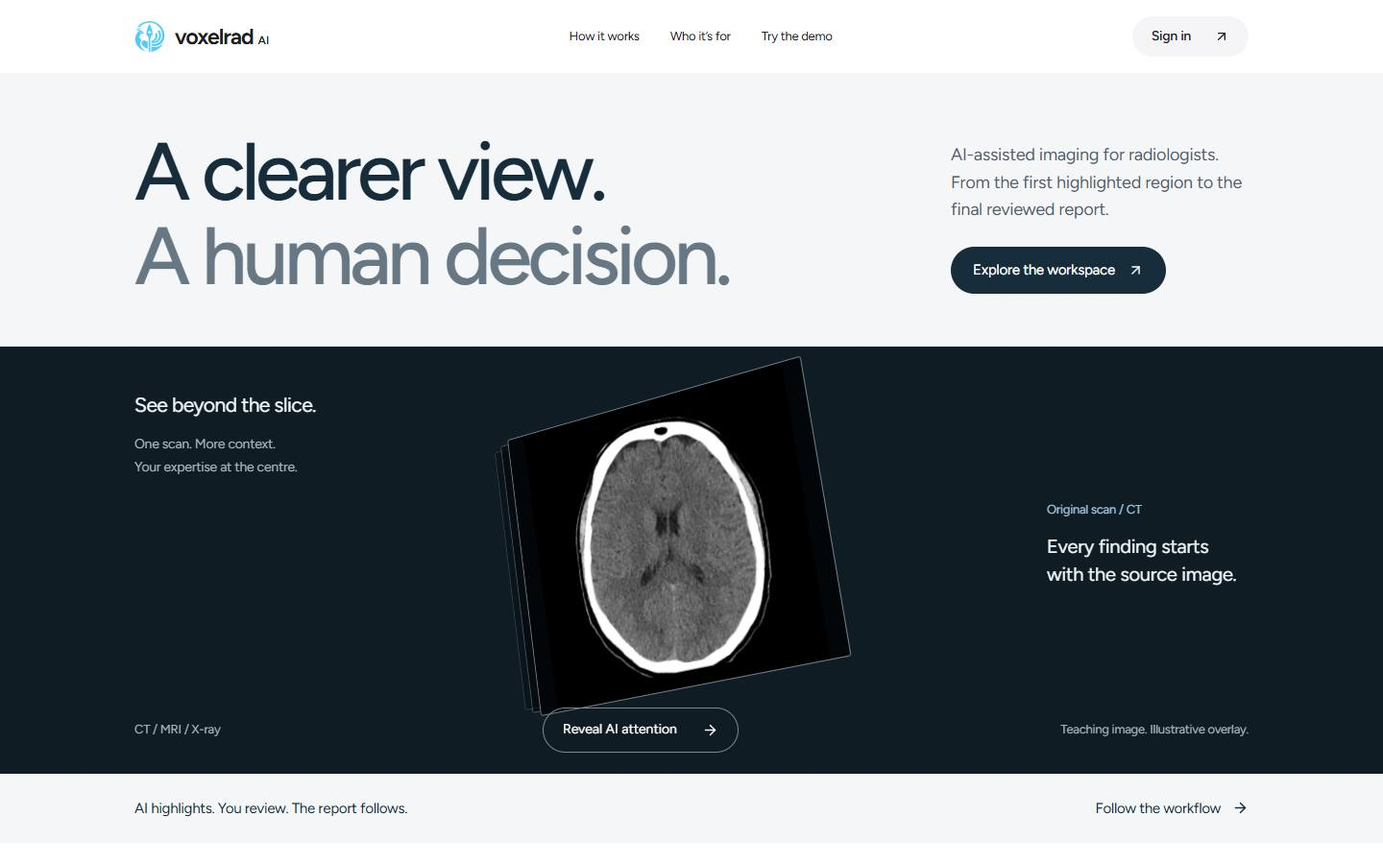
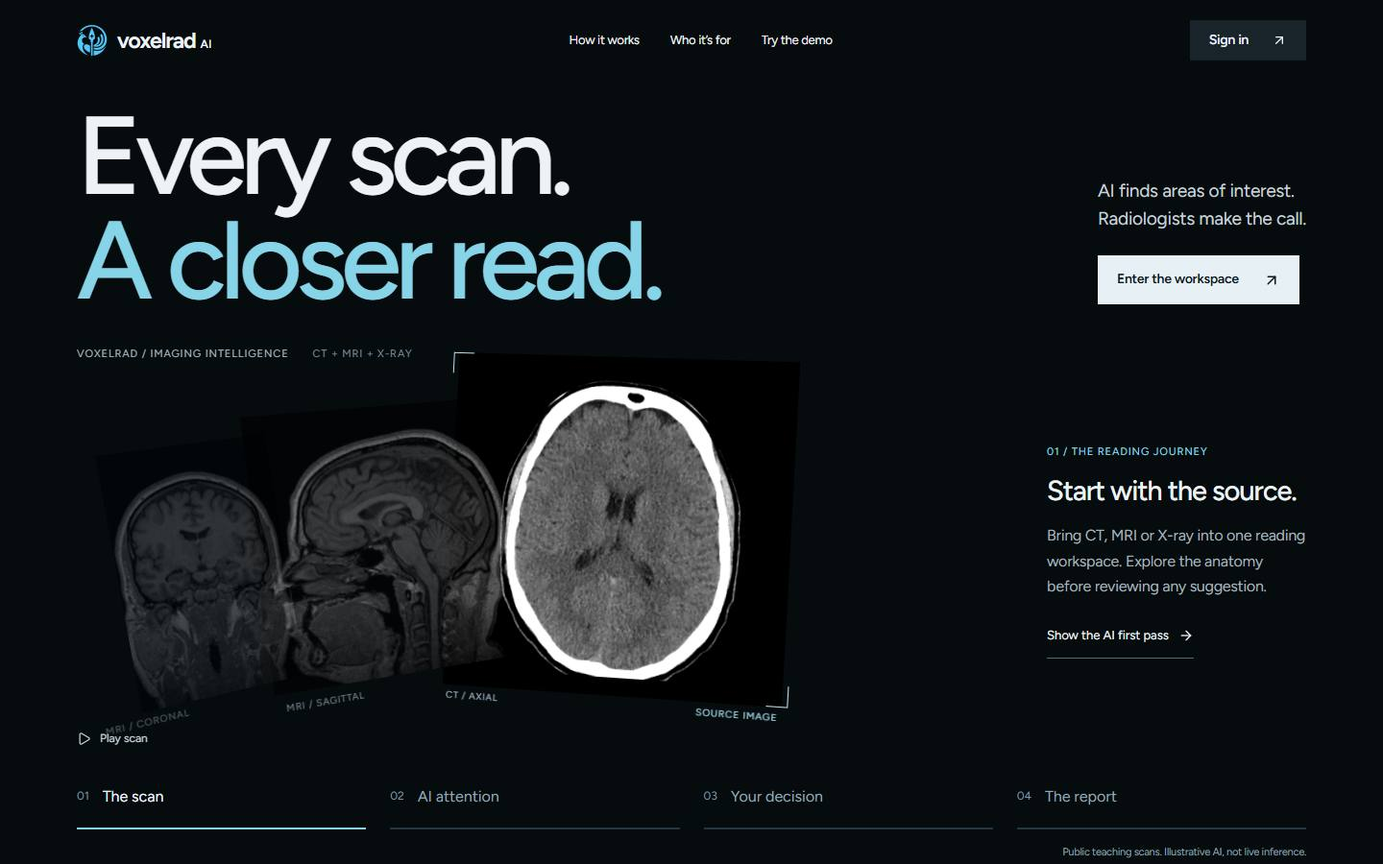
Create cinematic scan-led hero with human review story

diff --git a/app/src/cinematic-hero.css b/app/src/cinematic-hero.css
@@ -1,0 +1,69 @@
+/* One cinematic reading room: source, attention, judgment, report. */
+.vr-cinematic-page{--cinema-ground:#060b0e;--cinema-ink:#edf3f5;--cinema-muted:#a3b3bc;--cinema-accent:#87d3e7}
+.vr-cinematic-page .lp2-header{background:var(--cinema-ground);color:var(--cinema-ink);width:100%;padding-inline:max(40px,calc((100vw - 1280px)/2));height:84px}
+.vr-cinematic-page .lp2-nav-login{background:#18232a;color:var(--cinema-ink);border:0;border-radius:0}
+.vr-cinematic-page .lp2-header nav a:hover{color:var(--cinema-accent)}
+.vr-cinema{background:var(--cinema-ground);color:var(--cinema-ink);overflow:hidden;padding:24px max(40px,calc((100vw - 1280px)/2)) 25px}
+.vr-cinema-heading{display:flex;justify-content:space-between;align-items:flex-end;gap:40px;position:relative;z-index:2}
+.lp2-page .vr-cinema h1{font-size:clamp(72px,8vw,116px);line-height:.95;letter-spacing:-.06em;font-weight:500;margin:0}
+.vr-cinema h1>span{color:var(--cinema-accent)}
+.vr-cinema-intro{max-width:300px;padding-bottom:10px}
+.vr-cinema-intro p{font-size:19px;line-height:1.5;color:#c6d2d9;margin-bottom:24px}
+.vr-cinema-intro>a{display:inline-flex;align-items:center;gap:25px;background:#e7f0f4;color:#0b1820!important;padding:14px 20px;min-height:50px;font-size:14px;font-weight:600}
+.vr-cinema-intro>a:hover{background:var(--cinema-accent)}
+.vr-cinema-scene{height:440px;position:relative;margin-top:25px;isolation:isolate}
+.vr-film-label{position:absolute;top:8px;left:0;display:flex;gap:25px;font-size:11px;letter-spacing:.08em;color:var(--cinema-muted);z-index:3}
+.vr-film-label>span+span{color:#738a98}
+.vr-scan-assembly{position:absolute;left:0;top:10px;width:70%;height:420px;perspective:1200px}
+.vr-film{position:absolute;transform-style:preserve-3d;transition:transform 1s cubic-bezier(.22,1,.36,1),opacity .7s; background:#000;}
+.vr-film>img,.vr-film>video{display:block;width:100%;height:calc(100% - 22px);object-fit:contain;filter:contrast(1.08)}
+.vr-film>span{display:flex;justify-content:space-between;color:#a1b5c2;font-size:10px;letter-spacing:.07em;padding:3px 10px;background:#0c1419}
+.vr-film em{font:inherit;color:#9ad4e2}
+.vr-film-coronal{width:270px;height:285px;left:0;top:100px;transform:rotateY(28deg) rotateZ(-10deg);opacity:.45}
+.vr-film-sagittal{width:280px;height:310px;left:190px;top:57px;transform:rotateY(21deg) rotateZ(-7deg);opacity:.65}
+.vr-film-axial{width:365px;height:375px;left:380px;top:10px;transform:rotateY(-8deg) rotateZ(3deg)}
+.vr-crosshair{position:absolute;width:22px;height:22px;z-index:2;border-color:#bce7f3;border-style:solid;pointer-events:none}
+.vr-crosshair-a{left:0;top:0;border-width:1px 0 0 1px}
+.vr-crosshair-b{right:0;bottom:22px;border-width:0 1px 1px 0}
+.vr-cinema[data-chapter='1'] .vr-film-coronal,.vr-cinema[data-chapter='2'] .vr-film-coronal{transform:translateX(-25px) rotateY(40deg) rotateZ(-12deg);opacity:.2}
+.vr-cinema[data-chapter='1'] .vr-film-sagittal,.vr-cinema[data-chapter='2'] .vr-film-sagittal{transform:translateX(-30px) rotateY(30deg) rotateZ(-8deg);opacity:.35}
+.vr-cinema[data-chapter='1'] .vr-film-axial,.vr-cinema[data-chapter='2'] .vr-film-axial{transform:translateX(-15px) rotateY(0) rotateZ(0)}
+.vr-cinema-overlay{position:absolute;inset:0 0 22px;animation:vr-evidence-in .8s cubic-bezier(.22,1,.36,1) both}
+.vr-cinema-overlay>i{position:absolute;left:59%;top:33%;width:24%;height:43%;background:radial-gradient(ellipse,#eb9a52b0 0%,#4dc3d77a 45%,transparent 72%)}
+.vr-cinema-overlay>span{position:absolute;left:61%;top:35%;width:21%;height:38%;border:1px solid #d8b677}
+.vr-cinema-overlay b{position:absolute;bottom:100%;right:-1px;font-size:11px;font-weight:400;white-space:nowrap;background:#d8b677;color:#151c20;padding:3px 6px}
+@keyframes vr-evidence-in{from{opacity:0;clip-path:inset(0 0 100%)}to{opacity:1;clip-path:inset(0)}}
+.vr-cinema-caption{position:absolute;right:0;top:110px;width:260px}
+.vr-cinema-caption>p:first-child{font-size:11px;color:var(--cinema-accent);letter-spacing:.08em;margin-bottom:16px}
+.lp2-page .vr-cinema-caption h2{font-size:29px;line-height:1.1;letter-spacing:-1px;margin-bottom:18px;font-weight:500}
+.vr-cinema-caption>p:not(:first-child){font-size:14px;color:var(--cinema-muted);line-height:1.65}
+.vr-cinema-caption>button{border:0;border-bottom:1px solid #546b78;background:transparent;color:var(--cinema-ink);padding:13px 0;display:flex;align-items:center;gap:10px;margin-top:14px;font-size:13px;min-height:44px;text-align:left}
+.vr-cinema-caption>button:hover{color:var(--cinema-accent)}
+.vr-cine-control{position:absolute;left:0;bottom:0;display:flex;gap:9px;align-items:center;min-height:44px;padding:10px 0;background:transparent;color:#c6d3dc;border:0;font-size:12px!important}
+.vr-cinema-bottom nav{display:grid;grid-template-columns:repeat(4,1fr);gap:25px;margin-top:10px}
+.vr-cinema-bottom nav button{position:relative;display:flex;gap:14px;align-items:center;min-height:60px;padding:15px 0 22px;color:#92a7b3;background:transparent;border:0;font-size:16px;text-align:left}
+.vr-cinema-bottom nav button>span{font-size:12px;color:#7b95a4}
+.vr-cinema-bottom nav button>i{position:absolute;bottom:0;left:0;right:0;height:2px;background:#243640}
+.vr-cinema-bottom nav button[aria-current=step]{color:#f0f7fa}
+.vr-cinema-bottom nav button[aria-current=step]>i{background:var(--cinema-accent)}
+.vr-cinema-bottom>p{font-size:11px;color:#8ca1ae;margin-top:15px;text-align:right}
+.vr-cinema-report{position:absolute;left:36%;top:16px;width:310px;min-height:360px;padding:27px;background:#edf1f2;color:#182730;z-index:4;animation:vr-report-in .8s cubic-bezier(.22,1,.36,1) both;transform-origin:bottom left}
+.vr-cinema-report>span{font-size:10px;letter-spacing:.07em}
+.lp2-page .vr-cinema-report h3{font-size:30px;letter-spacing:-1px;line-height:1.05;margin:25px 0 18px}
+.vr-cinema-report p{font-size:12px;line-height:1.5;margin-block:7px}
+.vr-cinema-report h4{font-size:12px;margin-top:15px}
+.vr-report-reviewed{display:flex;gap:6px;align-items:center;color:#245f64}
+.vr-cinema-report footer{margin-top:20px;font-size:10px;color:#53606a}
+.vr-cinema[data-chapter='3'] .vr-scan-assembly{opacity:.35}
+@keyframes vr-report-in{from{opacity:.3;transform:translate(-45px,25px) rotateY(-25deg)}to{opacity:1;transform:translate(0,0) rotateY(0)}}
+@media(min-width:1600px){.vr-cinema-scene{height:500px}.vr-scan-assembly{top:40px}}
+@media(max-width:1200px){.vr-film-coronal{width:225px;height:260px}.vr-film-sagittal{left:110px;width:235px;height:285px}.vr-film-axial{left:260px;width:315px;height:350px}.vr-cinema-caption{width:230px}.vr-cinema-report{left:30%}}
+@media(max-width:950px){.vr-cinema{padding-inline:30px}.vr-cinematic-page .lp2-header{padding-inline:30px}.lp2-page .vr-cinema h1{font-size:76px}.vr-cinema-intro{max-width:240px}.vr-cinema-intro p{font-size:16px}.vr-film-coronal{width:180px;height:230px;left:-30px}.vr-film-sagittal{width:190px;height:250px;left:50px}.vr-film-axial{width:260px;height:315px;left:160px;top:30px}.vr-cinema-caption{width:210px;top:90px}.vr-film-label{font-size:10px}.vr-film-label>span+span{display:none}.vr-cinema-report{left:18%;width:270px}.vr-cinema-scene{height:395px}.lp2-page .vr-cinema-caption h2{font-size:25px}}
+@media(max-width:700px){.vr-cinematic-page .lp2-header{padding-inline:22px;height:72px}.vr-cinema{padding:22px 22px 24px}.vr-cinema-heading{display:block}.lp2-page .vr-cinema h1{font-size:clamp(54px,12vw,80px);letter-spacing:-.055em}.vr-cinema-intro{display:flex;align-items:center;gap:15px;max-width:none;margin-top:24px;padding:0}.vr-cinema-intro p{font-size:13px;flex:1;margin:0}.vr-cinema-intro>a{font-size:12px;padding:12px;gap:8px;min-height:46px}.vr-cinema-scene{height:540px;margin-top:26px}.vr-film-label{font-size:9px;top:0}.vr-scan-assembly{height:310px;width:100%;top:25px}.vr-film-coronal{left:-30px;top:60px;width:145px;height:190px;opacity:.3}.vr-film-sagittal{left:30px;top:40px;width:170px;height:210px;opacity:.5}.vr-film-axial{left:auto;right:0;top:10px;width:225px;height:265px}.vr-film>span{font-size:8px;padding-inline:5px}.vr-film em{display:none}.vr-cinema-caption{top:345px;left:0;right:0;width:auto}.vr-cinema-caption>p:first-child{display:none}.lp2-page .vr-cinema-caption h2{font-size:26px;margin-bottom:10px}.vr-cinema-caption>p:not(:first-child){font-size:14px;max-width:420px}.vr-cinema-caption>button{margin-top:4px;font-size:13px}.vr-cine-control{bottom:auto;top:292px;font-size:11px!important}.vr-cinema-bottom nav{gap:13px;margin-top:0}.vr-cinema-bottom nav button{font-size:12px;display:block;line-height:1.3;padding-block:8px 17px;min-height:65px}.vr-cinema-bottom nav button>span{display:block;font-size:10px;margin-bottom:8px}.vr-cinema-bottom>p{text-align:left;font-size:10px;line-height:1.5}.vr-cinema-report{left:50%;transform:translateX(-50%);top:24px;width:245px;min-height:285px;padding:20px;animation:vr-report-mobile .6s ease-out both}.lp2-page .vr-cinema-report h3{font-size:25px;margin:16px 0 12px}.vr-cinema-report footer{margin-top:12px}.vr-cinema-report p{font-size:11px}.vr-cinema-report h4{margin-top:10px}}
+@keyframes vr-report-mobile{from{opacity:.3;translate:0 15px}to{opacity:1;translate:0 0}}
+@media(prefers-reduced-motion:reduce){.vr-cinema *{animation:none!important;transition:none!important}}
+.vr-film{background:transparent}
+.vr-film>img,.vr-film>video{mix-blend-mode:screen}
+.vr-film>span{background:transparent}
+@media(min-width:951px){.vr-cinema-caption>p:not(:first-child){font-size:16px}.vr-cinema-caption{width:270px}}
+.vr-film{mix-blend-mode:screen}

diff --git a/app/src/landing.css b/app/src/landing.css
@@ -393,44 +393,5 @@
 @media(max-width:760px) { .lp4-hero { padding-block:40px; } .lp4-hero-layout { grid-template-columns:1fr; gap:32px; } .lp2-page .lp4-hero h1 { font-size:64px; letter-spacing:-2.8px; } .lp4-kicker { font-size:12px; margin-bottom:22px; } .lp4-description { font-size:18px; } .lp4-formats { margin-top:28px; } .lp4-caption { font-size:13px; } .lp4-hero-flow .lp3-flow-nav { grid-template-columns:repeat(4,1fr); gap:1px; padding:8px; } .lp4-hero-flow .lp3-flow-nav button { font-size:11px; padding:6px 2px; } .lp4-hero-flow .lp3-flow-visual { padding-inline:8px; } .lp4-hero-flow .lp3-flow-copy { padding:20px; min-height:285px; } .lp4-hero-flow .lp3-finding-card { width:155px; bottom:5px; padding:12px; } .lp4-hero-flow .lp3-finding-card>strong { font-size:15px; } .lp4-hero-flow .lp3-flow-scan { width:210px; } .lp4-hero-flow .lp3-flow-scan>img { height:205px; } .lp4-process { grid-template-columns:1fr; gap:28px; } .lp4-process article { display:grid; grid-template-columns:45px 1fr; gap:0 15px; } .lp4-process article>span { grid-row:1/3; font-size:27px; } .lp4-process h3 { margin-top:0; } .lp4-process p { grid-column:2; } }
 
 @media(min-width:761px) and (max-width:1050px) { .lp4-hero-layout { grid-template-columns:.95fr 1.05fr; gap:24px; } .lp2-page .lp4-hero h1 { font-size:56px; letter-spacing:-2.5px; } }
-/* Imaging hero: the scan itself is the interface. */
-.lp5-hero{background:#f5f6f8;color:#172d3c}
-.lp5-intro{display:flex;justify-content:space-between;align-items:flex-end;gap:70px;padding-block:58px 50px}
-.lp2-page .lp5-intro h1{font-size:clamp(48px,5.9vw,86px);line-height:1.04;letter-spacing:-.055em;font-weight:500;margin:0;flex:1}
-.lp5-intro h1 span{color:#677783}
-.lp5-summary{max-width:310px;padding-bottom:5px}
-.lp5-summary p{font-size:18px;line-height:1.6;margin-bottom:24px;color:#50606d}
-.lp5-summary .lp2-primary{background:#172d3c;border-radius:100px;padding-inline:23px}
-.lp5-stage{background:#101c24;color:#eff5f9;overflow:hidden}
-.lp5-stage-inner{height:445px;position:relative;display:flex;align-items:center;justify-content:center;perspective:1400px}
-.lp5-volume{position:relative;width:370px;height:330px;transform-style:preserve-3d;transform:translateX(-25px) rotateX(8deg) rotateY(-24deg) rotateZ(-9deg);transition:transform 1s cubic-bezier(.22,1,.36,1)}
-.lp5-plane{position:absolute;inset:0;width:100%;height:100%;object-fit:contain;background:#030608;border:1px solid #70818d;border-radius:3px;transition:transform 1s cubic-bezier(.22,1,.36,1),opacity 1s}
-.lp5-plane-back{transform:translate3d(-68px,-20px,-85px);opacity:.35}
-.lp5-plane-middle{transform:translate3d(-34px,-10px,-42px);opacity:.6}
-.lp5-plane-front{transform:translateZ(0);overflow:hidden}
-.lp5-plane-front>img{width:100%;height:100%;object-fit:contain}
-.lp5-stage[data-attention=true] .lp5-volume{transform:translateX(-25px) rotateX(0) rotateY(-8deg) rotateZ(0)}
-.lp5-stage[data-attention=true] .lp5-plane-back{transform:translate3d(-110px,-28px,-85px)}
-.lp5-stage[data-attention=true] .lp5-plane-middle{transform:translate3d(-55px,-14px,-42px)}
-.lp5-attention{position:absolute;inset:0;opacity:0;transition:opacity .6s .25s}
-.lp5-stage[data-attention=true] .lp5-attention{opacity:1}
-.lp5-heat{position:absolute;left:59%;top:33%;width:23%;height:41%;background:radial-gradient(ellipse,#ee9d4caa 0%,#5fbed266 45%,transparent 73%)}
-.lp5-box{position:absolute;left:60%;top:34%;width:21%;height:37%;border:1px solid #e3b66d}
-.lp5-stage-note{position:absolute;left:0;top:44px;max-width:220px}
-.lp5-stage-note>span{font-size:21px;letter-spacing:-.5px}
-.lp5-stage-note p{font-size:14px;line-height:1.7;color:#a6b7c3;margin-top:13px}
-.lp5-annotation{position:absolute;right:0;top:156px;width:210px}
-.lp5-annotation>span{font-size:13px;color:#9ec6dd}
-.lp5-annotation p{font-size:20px;line-height:1.45;white-space:pre-line;margin-top:13px}
-.lp5-stage-bottom{position:absolute;bottom:22px;left:0;right:0;display:flex;align-items:center;justify-content:space-between;gap:20px;font-size:13px;color:#a6b7c3}
-.lp5-stage-bottom button{display:flex;gap:26px;align-items:center;border:1px solid #748b9a;border-radius:100px;background:transparent;color:#fff;padding:11px 20px;min-height:46px;font-size:14px}
-.lp5-stage-bottom button:hover{background:#29404f}
-.lp5-footnote{display:flex;align-items:center;justify-content:space-between;gap:20px;padding-block:24px;font-size:15px}
-.lp5-footnote a{display:flex;align-items:center;gap:12px}
+
 .lp5-workflow{margin-top:50px}
-@media(max-width:1050px){.lp5-intro{gap:30px}.lp5-summary{max-width:260px}.lp5-volume{width:300px;height:280px}.lp5-stage-note{max-width:170px}.lp5-annotation{width:160px}.lp5-annotation p{font-size:17px}.lp5-stage-note>span{font-size:17px}}
-@media(max-width:760px){.lp5-intro{display:block;padding-block:28px 30px}.lp2-page .lp5-intro h1{font-size:clamp(37px,9.8vw,60px);letter-spacing:-.045em}.lp5-summary{max-width:420px;margin-top:22px}.lp5-summary p{font-size:16px;margin-bottom:18px}.lp5-stage-inner{height:405px}.lp5-stage-note{top:22px;max-width:none}.lp5-stage-note>span{font-size:17px}.lp5-stage-note p{display:none}.lp5-volume{width:245px;height:245px;transform:translate(20px,-4px) rotateY(-22deg) rotateZ(-8deg)}.lp5-stage[data-attention=true] .lp5-volume{transform:translate(20px,-4px) rotateY(-6deg)}.lp5-annotation{right:0;top:22px;width:auto}.lp5-annotation>span{font-size:11px}.lp5-annotation p{display:none}.lp5-stage-bottom{bottom:18px;justify-content:center;flex-wrap:wrap;gap:10px}.lp5-stage-bottom>span:first-child{display:none}.lp5-stage-bottom>span:last-child{width:100%;text-align:center;font-size:11px}.lp5-footnote{display:block;font-size:14px;padding-block:20px}.lp5-footnote a{margin-top:8px}.lp5-workflow{margin-top:30px}}
-@media(prefers-reduced-motion:reduce){.lp5-volume,.lp5-plane,.lp5-attention{transition:none!important}}
-@media(min-width:761px){.lp5-volume{top:-20px;width:350px;height:310px}}
-@media(max-width:760px){.lp5-volume{top:-13px;width:230px;height:230px}}
-@media(min-width:761px) and (max-width:1050px){.lp5-intro{align-items:center}.lp5-volume{width:280px;height:275px;top:0}.lp5-stage-note p{display:none}.lp5-stage-note{top:28px}}

diff --git a/app/src/LandingPage.tsx b/app/src/LandingPage.tsx
@@ -2,6 +2,7 @@ import { useEffect, useLayoutEffect, useRef, useState } from 'react'
 import { Accordion, Tabs } from 'radix-ui'
 import { ArrowRight, ArrowUpRight, Pause, Play, Plus, Minus, Layers3, ScanLine, FileText, Check, RotateCcw, ArrowLeft } from 'lucide-react'
 import './landing.css'
+import { CinematicHero } from './CinematicHero'
 
 const views = [
   { label: 'CT · Axial', image: '/login/ct-poster.webp', title: 'CT brain', detail: 'Move through the volume.', description: 'Play the axial cine or pause to take a closer look.' },
@@ -144,45 +145,13 @@ function GuidedDemo() {
   </div>
 }
 
-function ImagingHero() {
-  const [attention, setAttention] = useState(false)
-  const volume = useRef<HTMLDivElement>(null)
-  useEffect(() => {
-    const preference = matchMedia('(prefers-reduced-motion: reduce)')
-    if (preference.matches) return
-    const intro = volume.current?.animate([{ opacity: .5, translate: '0 18px' }, { opacity: 1, translate: '0 0' }], { duration: 1100, easing: 'cubic-bezier(.22,1,.36,1)' })
-    const finish = () => intro?.finish()
-    preference.addEventListener('change', finish)
-    return () => { intro?.cancel(); preference.removeEventListener('change', finish) }
-  }, [])
-  return <section className="lp5-hero" aria-labelledby="hero-title">
-    <div className="lp5-intro lp2-wrap">
-      <h1 id="hero-title">A clearer view.<br /><span>A human decision.</span></h1>
-      <div className="lp5-summary"><p>AI-assisted imaging for radiologists. From the first highlighted region to the final reviewed report.</p><a className="lp2-primary" href="/workspace">Explore the workspace <ArrowUpRight size={17} /></a></div>
-    </div>
-    <div className="lp5-stage" data-attention={attention}>
-      <div className="lp5-stage-inner lp2-wrap">
-        <div className="lp5-stage-note"><span>See beyond the slice.</span><p>One scan. More context.<br />Your expertise at the centre.</p></div>
-        <div ref={volume} className="lp5-volume" aria-label="Layered CT teaching image with optional illustrative AI attention">
-          <img className="lp5-plane lp5-plane-back" src="/login/ct-poster.webp" alt="" />
-          <img className="lp5-plane lp5-plane-middle" src="/login/ct-poster.webp" alt="" />
-          <div className="lp5-plane lp5-plane-front"><img src="/login/ct-poster.webp" alt="Axial CT brain teaching scan" /><div className="lp5-attention"><span className="lp5-heat" /><span className="lp5-box" /></div></div>
-        </div>
-        <div className="lp5-annotation" aria-live="polite"><span>{attention ? 'AI attention / illustrative' : 'Original scan / CT'}</span><p>{attention ? 'A region to review. Not a final diagnosis.' : 'Every finding starts with the source image.'}</p></div>
-        <div className="lp5-stage-bottom"><span>CT / MRI / X-ray</span><button onClick={() => setAttention(!attention)} aria-pressed={attention}>{attention ? 'View original scan' : 'Reveal AI attention'} <ArrowRight size={17} /></button><span>Teaching image. Illustrative overlay.</span></div>
-      </div>
-    </div>
-    <div className="lp5-footnote lp2-wrap"><p>AI highlights. You review. The report follows.</p><a href="#how-it-works">Follow the workflow <ArrowRight size={17} /></a></div>
-  </section>
-}
-
 export function LandingPage() {
   useEffect(() => { document.title = 'VoxelRad AI — Your imaging workspace, reimagined' }, [])
-  return <div className="landing-page lp2-page" onKeyDownCapture={(event) => { event.currentTarget.dataset.motionInput = "keyboard" }} onPointerDownCapture={(event) => { event.currentTarget.dataset.motionInput = "pointer" }}>
+  return <div className="landing-page lp2-page vr-cinematic-page" onKeyDownCapture={(event) => { event.currentTarget.dataset.motionInput = "keyboard" }} onPointerDownCapture={(event) => { event.currentTarget.dataset.motionInput = "pointer" }}>
     <a className="lp-skip" href="#main">Skip to content</a>
     <header className="lp2-header lp2-wrap"><a className="lp2-brand" href="/" aria-label="VoxelRad AI home"><img src="/skanda-mark.png" alt="" /><span>voxelrad<span>AI</span></span></a><nav aria-label="Main navigation"><a href="#how-it-works">How it works</a><a href="#for-you">Who it’s for</a><a href="#demo">Try the demo</a></nav><a className="lp2-nav-login" href="/workspace">Sign in <ArrowUpRight size={16} /></a></header>
     <main id="main">
-      <ImagingHero />
+      <CinematicHero />
       <section className="lp2-capabilities lp2-wrap" aria-label="Workspace capabilities"><div><strong>X-ray</strong><span>Image review & annotation</span></div><div><strong>CT & MRI</strong><span>Slice navigation & multiplanar views</span></div><div><strong>Findings</strong><span>Evidence beside the image</span></div><div><strong>Reports</strong><span>Draft, review & export</span></div></section>
       <section className="lp3-flow-section" id="how-it-works" aria-labelledby="flow-title"><div className="lp2-wrap"><div className="lp3-flow-heading"><p className="lp2-label">From scan to report</p><h2 id="flow-title">AI takes the first pass.<br />You make the call.</h2><p>Upload a scan. Let AI highlight areas for attention with heatmaps and boxes. Review the evidence, approve or revise the findings, then bring them into a report.</p></div><div className="lp4-process">{flowSteps.map((item,index) => <article key={item.title}><span>{String(index+1).padStart(2,'0')}</span><h3>{item.title}</h3><p>{item.text}</p></article>)}</div><div className="lp5-workflow" id="hero-review"><ReviewFlow /></div><p className="lp3-flow-benefit">Designed to help radiologists find areas of interest sooner and spend less time assembling reports.</p></div></section>
       <section className="lp2-demo-section" id="demo" aria-labelledby="demo-title"><div className="lp2-wrap"><div className="lp2-section-title"><div><p className="lp2-label">A little less reading. A little more doing.</p><h2 id="demo-title">Meet your workspace.</h2></div><p>Try a three-step walkthrough with a real teaching scan. Change the view, add an observation, and see it in a sample draft.</p></div><GuidedDemo /></div></section>

diff --git a/app/src/CinematicHero.tsx b/app/src/CinematicHero.tsx
@@ -1,0 +1,60 @@
+import { useEffect, useRef, useState } from 'react'
+import { ArrowRight, ArrowUpRight, Check, Pause, Play, RotateCcw } from 'lucide-react'
+import './cinematic-hero.css'
+
+const chapters = [
+  { name: 'The scan', title: 'Start with the source.', text: 'Bring CT, MRI or X-ray into one reading workspace. Explore the anatomy before reviewing any suggestion.', action: 'Show the AI first pass' },
+  { name: 'AI attention', title: 'A place to look closer.', text: 'Heatmaps and candidate boxes bring areas of interest into focus. These overlays illustrate the workflow.', action: 'Review the suggestion' },
+  { name: 'Your decision', title: 'The final call is yours.', text: 'Compare the suggestion with the source image. In the workspace, approve, edit or reject each finding.', action: 'Approve example finding' },
+  { name: 'The report', title: 'From evidence to words.', text: 'Reviewed findings feed the report draft. The radiologist completes the impression and verifies the final report.', action: 'Replay the story' },
+]
+
+export function CinematicHero() {
+  const [chapter, setChapter] = useState(0)
+  const [approved, setApproved] = useState(false)
+  const [playing, setPlaying] = useState(false)
+  const scene = useRef<HTMLDivElement>(null)
+  const cine = useRef<HTMLVideoElement>(null)
+  const current = chapters[chapter]
+  useEffect(() => {
+    const preference = matchMedia('(prefers-reduced-motion: reduce)')
+    const pause = () => cine.current?.pause()
+    if (!preference.matches) {
+      void cine.current?.play().catch(() => {})
+      const timer = window.setTimeout(pause, 4500)
+      const observer = new IntersectionObserver(entries => { if (entries.some(entry => !entry.isIntersecting)) pause() })
+      if (scene.current) observer.observe(scene.current)
+      const onVisibility = () => { if (document.hidden) pause() }
+      preference.addEventListener('change', pause)
+      document.addEventListener('visibilitychange', onVisibility)
+      return () => { window.clearTimeout(timer); observer.disconnect(); preference.removeEventListener('change', pause); document.removeEventListener('visibilitychange', onVisibility) }
+    }
+  }, [])
+  const select = (index: number) => { cine.current?.pause(); setChapter(index) }
+  const advance = () => {
+    if (chapter === 2) setApproved(true)
+    if (chapter === 3) { setApproved(false); select(0) } else select(chapter + 1)
+  }
+  return <section className="vr-cinema" data-chapter={chapter} aria-labelledby="hero-title">
+    <div className="vr-cinema-heading">
+      <h1 id="hero-title">Every scan.<br /><span>A closer read.</span></h1>
+      <div className="vr-cinema-intro"><p>AI finds areas of interest.<br />Radiologists make the call.</p><a href="/workspace">Enter the workspace <ArrowUpRight size={18} /></a></div>
+    </div>
+    <div className="vr-cinema-scene" ref={scene}>
+      <div className="vr-film-label"><span>VOXELRAD / IMAGING INTELLIGENCE</span><span>CT + MRI + X-RAY</span></div>
+      <div className="vr-scan-assembly" aria-label="CT teaching scan with MRI anatomy in the background">
+        <div className="vr-film vr-film-coronal"><img src="/login/mr-coronal.webp" alt="Coronal MRI teaching view" /><span>MRI / CORONAL</span></div>
+        <div className="vr-film vr-film-sagittal"><img src="/login/mr-sagittal.webp" alt="Sagittal MRI teaching view" /><span>MRI / SAGITTAL</span></div>
+        <div className="vr-film vr-film-axial"><div className="vr-crosshair vr-crosshair-a" /><div className="vr-crosshair vr-crosshair-b" />
+          {chapter === 0 ? <video ref={cine} muted playsInline preload="metadata" poster="/login/ct-poster.webp" onPlay={() => setPlaying(true)} onPause={() => setPlaying(false)} onEnded={() => setPlaying(false)} aria-label="CT brain teaching cine"><source src="/login/ct-cine.mp4" type="video/mp4" /></video> : <img src="/login/ct-poster.webp" alt="Axial CT teaching scan" />}
+          {chapter > 0 && <div className="vr-cinema-overlay" aria-label="Illustrative attention map and candidate box"><i /><span><b>Region for review</b></span></div>}
+          <span>CT / AXIAL <em>{chapter === 0 ? 'SOURCE IMAGE' : 'ILLUSTRATIVE OVERLAY'}</em></span>
+        </div>
+      </div>
+      {chapter === 3 && <div className="vr-cinema-report"><span>VOXELRAD / REPORT DRAFT</span><h3>Evidence,<br />carried forward.</h3><p className="vr-report-reviewed">{approved ? <Check size={17} /> : null}{approved ? 'Example finding approved' : 'No finding approved'}</p><h4>Findings</h4><p>{approved ? 'The reviewed example is included in this demonstration draft.' : 'Return to Your decision to review the example.'}</p><h4>Impression</h4><p>To be completed by the radiologist.</p><footer>Draft only. Final clinical review required.</footer></div>}
+      <div className="vr-cinema-caption" aria-live="polite"><p>{String(chapter + 1).padStart(2,'0')} / THE READING JOURNEY</p><h2>{current.title}</h2><p>{current.text}</p><button onClick={advance}>{chapter === 2 ? <Check size={16} /> : chapter === 3 ? <RotateCcw size={16} /> : null}{current.action}<ArrowRight size={16} /></button></div>
+      {chapter === 0 && <button className="vr-cine-control" onClick={() => { if (playing) cine.current?.pause(); else void cine.current?.play().catch(() => {}) }} aria-label={playing ? 'Pause scan motion' : 'Play scan motion'}>{playing ? <Pause size={15} /> : <Play size={15} />}{playing ? 'Pause scan' : 'Play scan'}</button>}
+    </div>
+    <div className="vr-cinema-bottom"><nav aria-label="Imaging story chapters">{chapters.map((item,index) => <button key={item.name} aria-current={chapter === index ? 'step' : undefined} onClick={() => select(index)}><span>{String(index+1).padStart(2,'0')}</span>{item.name}<i /></button>)}</nav><p>Public teaching scans. Illustrative AI, not live inference.</p></div>
+  </section>
+}

diff --git a/docs/design/landing-page.md b/docs/design/landing-page.md
@@ -1,29 +1,23 @@
 # VoxelRad AI public landing page
 
-The root is a public product introduction. `/workspace` retains backend sign-in and existing OIDC callback handling. The Skanda logo and VoxelRad AI name are preserved.
+The root introduces the product; `/workspace` retains backend sign-in and OIDC handling. The original Skanda logo and VoxelRad AI brand remain.
 
-## Product story
+## Current direction
 
-The central narrative is scan intake -> AI first-pass heatmap and candidate boxes -> radiologist review and approval -> report draft. Intended benefits are earlier attention to candidate regions and less time assembling reports; no measured speed or accuracy claim is made.
+The user selected cinematic medical imaging: dark, immersive and scan-led. The hero is a continuous reading-room scene, with a dark header, large typography and distinct coronal MRI, sagittal MRI and axial CT teaching images. CSS perspective separates the anatomical views; no external 3D runtime or new dependency is required.
 
-`ReviewFlow` illustrates this as a four-step 3D transition. The walkthrough stops before approval. The visitor approves the example finding to include it in the demonstration report. Jumping directly to the report shows that no finding has been approved. Restart clears approval. CT/MRI switching and overlay visibility controls allow comparison with the original public teaching image.
+Four interactive chapters tell the actual product story: the scan, AI attention, the radiologist's decision, and the report. The first chapter briefly plays the CT cine. The next chapters reveal an illustrative heatmap and candidate box, then ask the visitor to approve the example. Approval carries it into the demonstration draft. Direct navigation to the report never approves the finding. Replay clears approval.
 
-Heatmaps and boxes in this explanatory animation are illustrative, not actual model results, and are labeled accordingly. Hosted inference remains unconfigured. The page does not claim clinical validation. The separate viewer demo supports CT cine, MRI views, zoom, and carrying a typed observation into a sample draft. No demo inputs are uploaded or persisted.
+The scene uses existing self-hosted Figtree, near-black #060b0e, pale text #edf3f5 and cyan #87d3e7. State transitions use cubic-bezier(.22,1,.36,1) over 700-1000ms. The opening cine stops after 4.5 seconds and has a visible play/pause control. It pauses offscreen and when the document is hidden; reduced motion starts with a still image and removes CSS movement. All chapter controls are native buttons.
 
-## Art direction
+## Product and content boundaries
 
-UI UX Pro Max guided the work. Apple's iPad Pro product presentation (https://www.apple.com/ipad-pro/) informed the large imaging hero, concise chapter headings, image-led explanations and neutral section contrast. No Apple assets or branding are used. Arc Library remains a reference for the existing tab/accordion interactions. Fonts remain self-hosted Figtree.
+Heatmaps and boxes are illustrative, not model results. Hosted inference remains unconfigured. No speed, accuracy or clinical validation claim is made. Public teaching-image provenance is in `app/public/samples/provenance.json`. The MRI and CT images show separate teaching studies, not matched patient views.
 
-The split hero pairs “AI assists. You decide.” with the interactive scan-to-report workflow. The first pass advances automatically, then stops for radiologist approval. Scan sweeps, overlay reveals and a finding-to-report transition explain each action. Motion pauses offscreen or when the tab is hidden, respects reduced motion and stays immediate for keyboard input. UI UX Pro Max and Emil Design Engineering informed the timing. Capabilities, four workflow chapters, a hands-on viewer demo, audience information, FAQ and workspace action follow. Isolated lp2/lp3/lp4 classes avoid clinical-viewer collisions.
+The detailed workflow below the hero retains CT/MRI switching, overlay visibility and report approval. The viewer demo supports CT cine, MRI planes, zoom and carrying a locally typed observation into a sample draft. Demo inputs are not uploaded or persisted.
 
-## Validation
+## References and validation
 
-Build and lint pass. Browser checks cover source-only intake, overlay reveal, approval, inclusion in report, restart, responsive overflow at 375/768/1440 pixels and console errors. Updated screenshots are stored in `docs/screenshots/landing/`. Public teaching-image provenance remains in `app/public/samples/provenance.json`.
+Design-taste, Awwwards web design, UI UX Pro Max and Emil Design Engineering informed composition, motion and interaction. The reference research used the Awwwards skill casebook and Lusion's public description of its 3D storytelling practice. Live Awwwards pages timed out and Lusion's automated screenshot remained in its loader; neither was claimed as a successfully inspected live hero.
 
-## Hero reset after visual review
-
-The crowded split hero was replaced with an editorial heading and a wide imaging stage. A layered CT teaching image is the principal object; Reveal AI attention changes its pose, separates the layers and reveals a clearly illustrative attention map. The detailed approval/report interaction sits below the hero. The scan remains visible without motion; reduced-motion disables the entrance and transitions. No new animation dependency or external runtime was added.
-
-References: Awwwards web design skill casebook (Opal Tadpole object presentation), Awwwards Hot Right Now 2023 discussion of True Staging, and Lusion's approach to 3D storytelling (https://lusion.co/). Live Awwwards listing requests timed out; Lusion's automated screenshot remained in its loader, so it was not treated as a verified hero composition. Existing public teaching imagery supplies the actual visual, with no borrowed artwork.
-
-Design decision: the scan becomes a lightbox object visitors can inspect. Fog #f5f6f8, ink #172d3c, stage #101c24, existing Figtree typography; a single 1100ms entrance and state-driven 600-1000ms transitions. The hero contains no diagnostic claim or invented performance metric.
+Build and lint pass. Chrome checks cover all four chapters, unapproved direct report navigation, explicit approval, replay, reduced-motion playback, console errors, overflow and report/copy collisions at 375, 390, 768 and 1440 pixels. Screenshots are saved in `docs/screenshots/landing/`.
